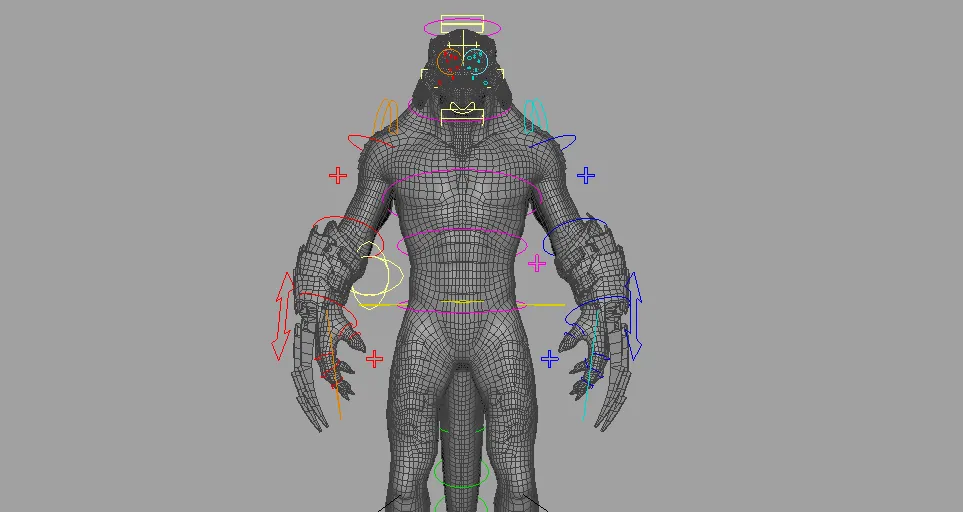
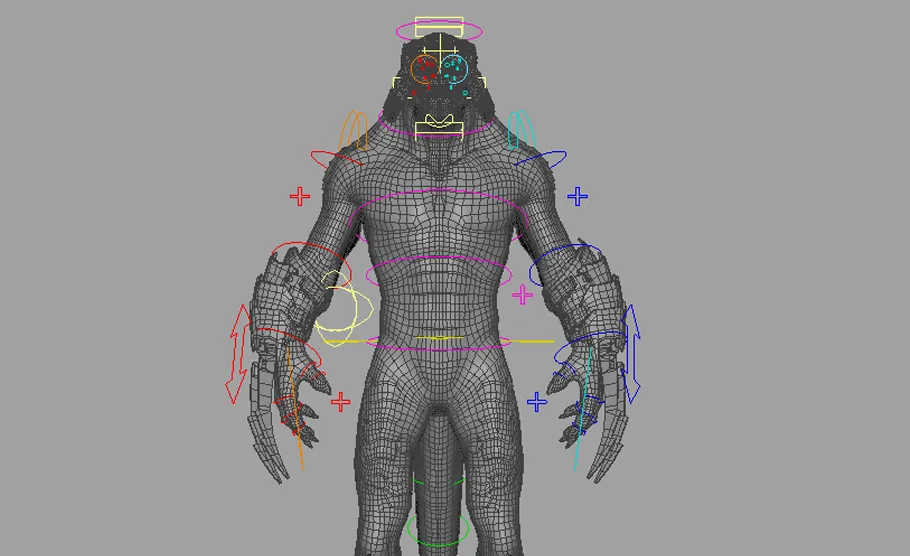
Small UI fix

Changed region(s): [[0.2462, 0.0312, 0.7077, 1.0]]

diff --git a/src/utils/assets.js b/src/utils/assets.js
@@ -3,7 +3,7 @@ export const asset = (p) => (p ? (p.startsWith('http') ? p : import.meta.env.BAS
 export const reducedMotion = () => window.matchMedia('(prefers-reduced-motion: reduce)').matches;
 export const isMobile = () => window.matchMedia('(max-width: 760px), (pointer: coarse)').matches;
 // ✏ Animation cards whose first seconds are black: card thumbnail = the video frame at this second (instead of the .webp). Change the numbers to pick another frame.
-export const THUMB_AT = { 'animation-01': 70, 'animation-02': 101, 'animation-03': 13 }; // seconds (1:10 · 1:41 · 0:13)
+export const THUMB_AT = { 'animation-03': 13 }; // seconds (0:13). Animations 01 + 02 now use their own .webp thumbnails (public/assets/animation/animation-01.webp and animation-02.webp). To go back to a video frame for one of them, add e.g. 'animation-01': 70 here.
 
 // Program icons: public/assets/icons/<Name>.webp  →  Unity · Blender · Maya · MotionBuilder · Harmony · AfterEffects
 const SW = { UNITY: 'Unity', BLENDER: 'Blender', MAYA: 'Maya', MOTIONBUILDER: 'MotionBuilder', HARMONY: 'Harmony', AFTEREFFECTS: 'AfterEffects' };
